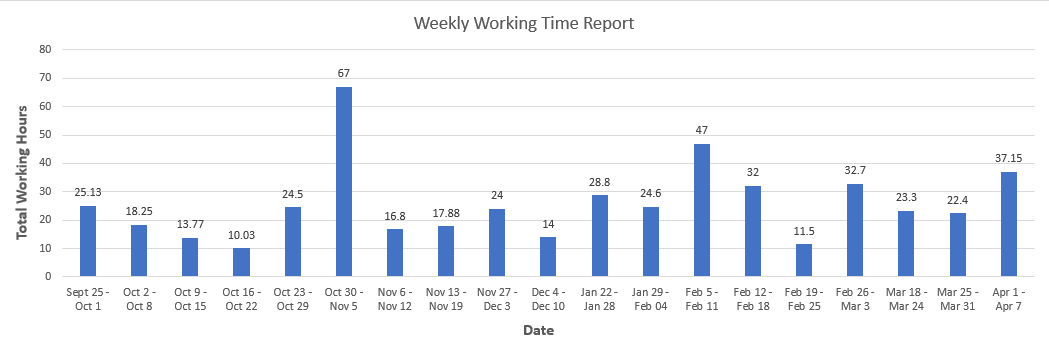
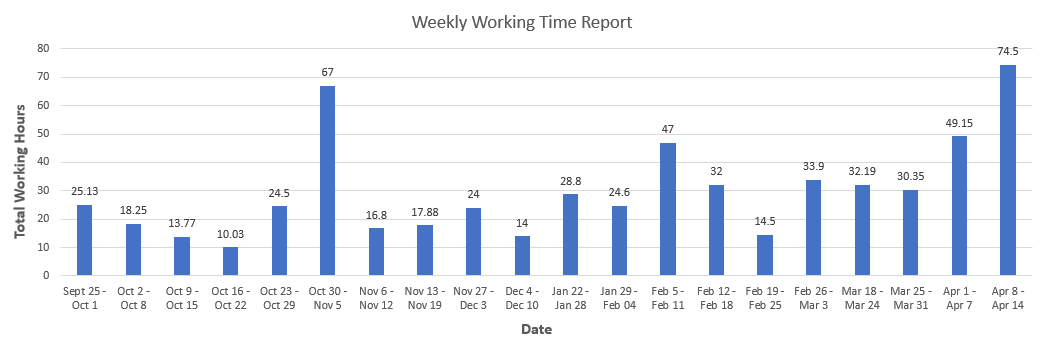
updated team webstie, new metrics

diff --git a/processmetrics.html b/processmetrics.html
@@ -46,12 +46,12 @@
         </p>
         <h1>Project Metrics</h1>
         <p>
-            <strong>Active Code Branche:</strong>
-            <br> The number of active branches in source control. It can give insights into the parallel development efforts.
+            <strong>Story Completed Per Sprint:</strong>
+            <br> The number of completed stories in each branch. It can give insights into the parallel development efforts.
             <br>
-            <strong>There are currently 20 active branches right now in our wexenergy_app github repo.</strong> 
+            <strong>The visually represents the productivity and progress of our development team across 7 distinct sprints during the second semester.</strong> 
             <br>
-            <img src="images/Branches.png" alt="Branches">
+            <img src="images/StoryCompleted.png" alt="Stories">
 
         </p>
 

diff --git a/timetracking.html b/timetracking.html
@@ -19,7 +19,7 @@
             <a href="contacts.html">Contact</a>
         </nav>
         <h1>Work Time Trackings</h1>
-        <h2>Work Hours from from April 1st to April 7th</h2>
+        <h2>Work Hours from from April 8th to April 14th</h2>
         <h3>Illustration of Work Hours For Each Week: </h3>
         <img src="images/WeeklyReportBarChart.png" alt="Work hours from September 25th to November 19th">
       
